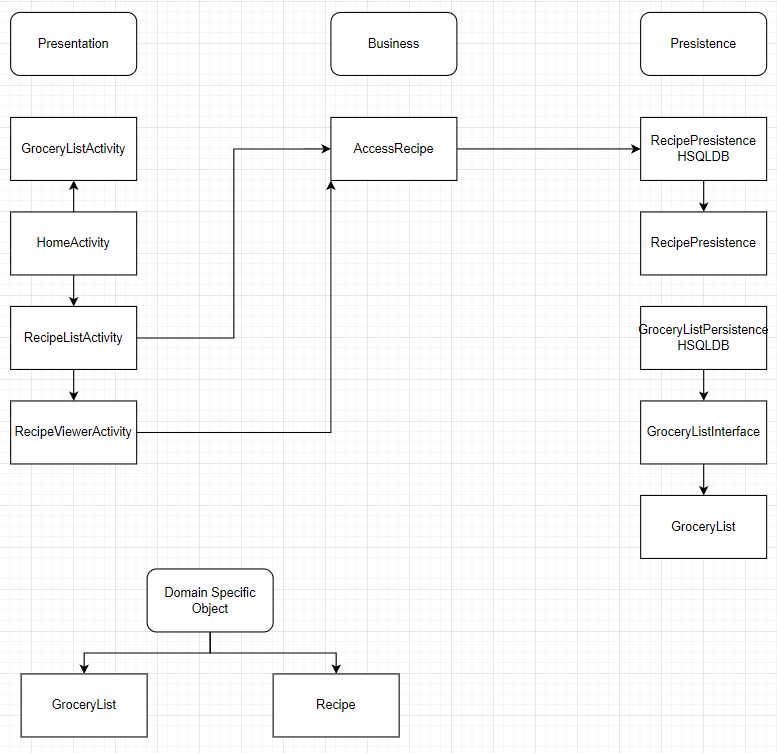
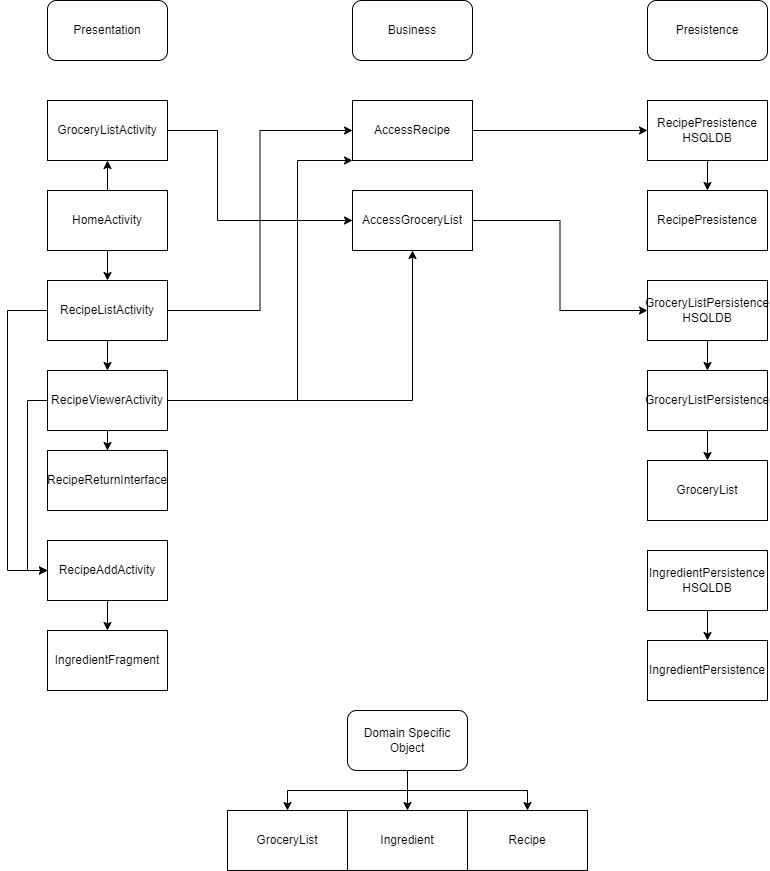
Updated architecture

diff --git a/Architecture/ARCHITECTURE.md b/Architecture/ARCHITECTURE.md
@@ -44,6 +44,34 @@ GroceryListPresistenceHSQLDB.java make query to the database to get the list of 
 
 GroceryListPresistence.java is the interface for the grocery list class.
 
+## Ingredient.java
+
+Ingredient.java is the class containing the information about the ingredient as well as methods to get the information about it.
+
+
+## IngredientPersistence.java
+
+GroceryListPresistence.java is the interface for the ingredient list class.
+
+## IngredientPersistenceHSQLDB.java
+
+GroceryListPresistenceHSQLDB.java make query to the database to get the list of ingredients and store it to an array.
+
+
+## RecipeReturnInterface.java
+
+RecipeReturnInterface.java is used to return a recipe from the add activity to the RecipeListActivity.
+
+## RecipeAddActivity.java
+
+RecipeAddActivity.java is used to add new recipes.
+
+
+## IngredientAddFragment.java
+
+IngredientAddFragment.java is used by RecipeAddActivity.java to add new ingredients to new recipes.
+
+
 ## The Architecture Flow chart
 
 ![Our architecture](/Architecture/Architecture.png)
